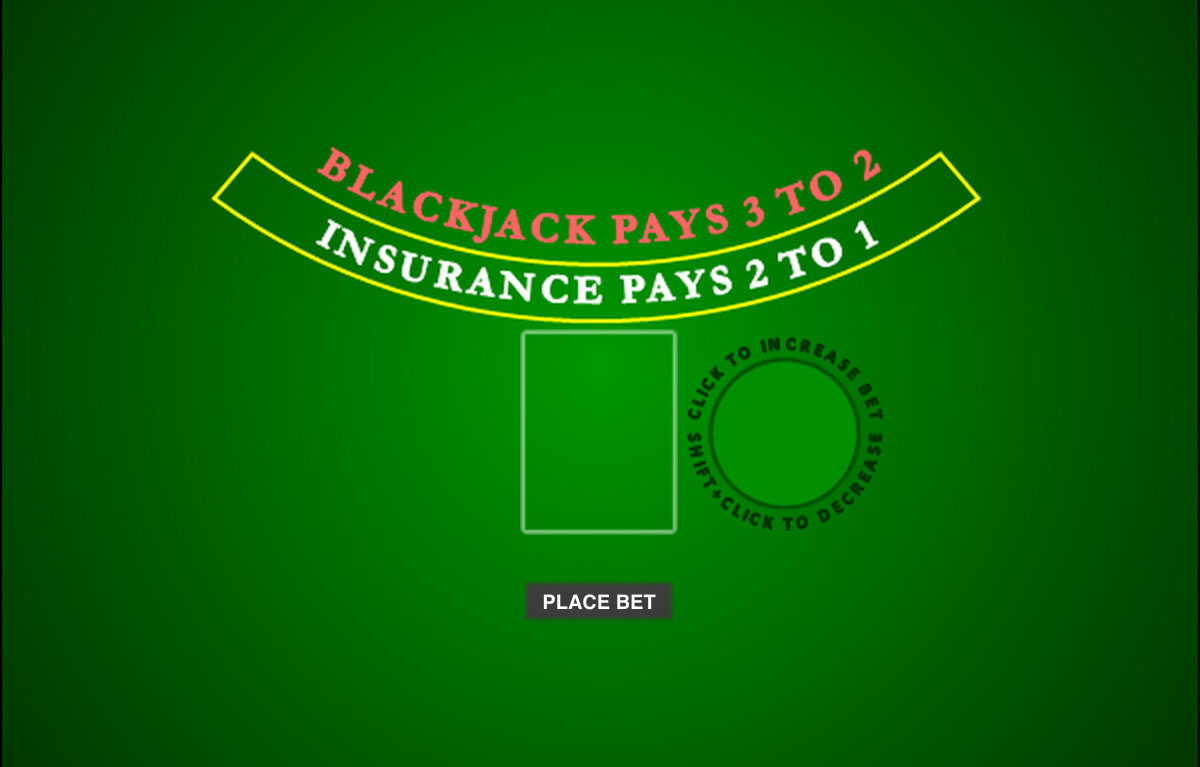
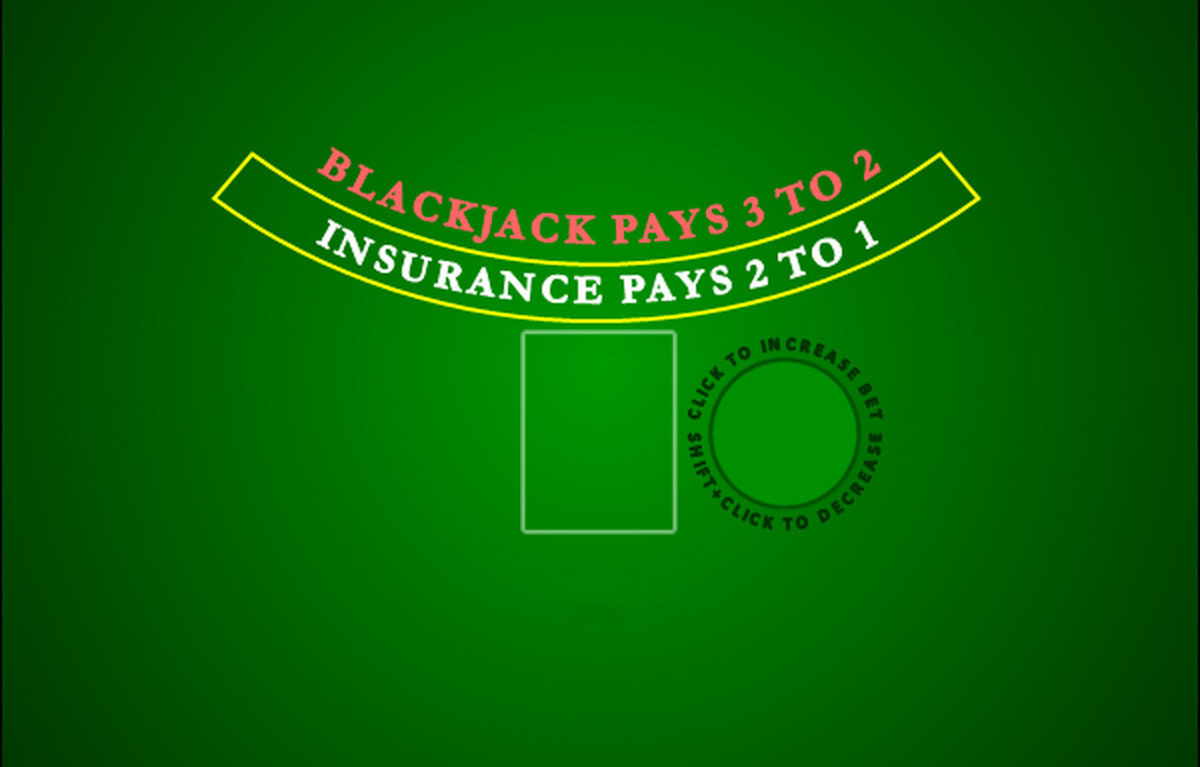
Initial frontend code

Changed region(s): [[0.4317, 0.7497, 0.5858, 0.8096]]

diff --git a/public/css/styles.css b/public/css/styles.css
@@ -8,31 +8,30 @@
   margin-left: 50px;
 }
 
-body {
-  color: green;
-}
-
 .hero-image {
   /* Use "linear-gradient" to add a darken background effect to the image (photographer.jpg). This will make the text easier to read */
   background-image: url("../Images/blackjack_background2.jpg");
   /* Set a specific height */
-  height: 50%;
-  /* Position and center the image to scale nicely on all screens */
   width: 100%;
-  height: 70%;
+  height: 75%;
   background-position: center;
-  background-repeat: no-repeat;
-  background-size: cover;
   position: relative;
 }
 
-.betAmountButton {
-  width: 80px;
+.betForm {
+  margin: 0 auto;
+  width: 50%;
 }
 
-.placeBetButton {
-  width: 130px;
-  position: absolute;
-  margin: 50%;
+@media only screen and (max-width: 550px) {
+  .hero-image {
+    /* Use "linear-gradient" to add a darken background effect to the image (photographer.jpg). This will make the text easier to read */
+    background-image: url("../Images/blackjack_small.jpg");
+    /* Position and center the image to scale nicely on all screens */
+    width: 100%;
+    height: 70%;
+    background-position: center;
+    position: relative;
+  }
 }
 /*# sourceMappingURL=styles.css.map */

diff --git a/public/index.html b/public/index.html
@@ -21,18 +21,17 @@
 
 <body>
     <!--Hero Image-->
-    <div class="hero-image">
-        <button type="button" class="btn btn-warning placeBetButton">Place Bet</button>
+    <div class="hero-image"></div>
 
-        <button type="button" class="btn btn-warning">Hit</button>
-        <button type="button" class="btn btn-warning">Stay</button>
-    </div>
+    <form class="betForm">
+        <label for="bet">Bet:</label>
+        <input type="number" id="bet" name="bet">
+        <input type="submit" class="btn btn-danger" value="Place Bet">
+    </form>
 
-    <button type="button" class="btn btn-primary betAmountButton">$ 1</button>
-    <button type="button" class="btn btn-secondary betAmountButton">$ 5</button>
-    <button type="button" class="btn btn-success betAmountButton">$ 10</button>
-    <button type="button" class="btn btn-danger betAmountButton">$ 20</button>
-    <button type="button" class="btn btn-warning betAmountButton">$ 100</button>
+    <button type="button" class="btn btn-warning hitButton">Hit</button>
+    <button type="button" class="btn btn-warning stayButton">Stay</button>
+    <button type="button" class="btn btn-warning finishButton">Finish</button>
 
     
 </body>

diff --git a/public/css/_hero.scss b/public/css/_hero.scss
@@ -1,17 +1,14 @@
 .hero-image {
-    /* Use "linear-gradient" to add a darken background effect to the image (photographer.jpg). This will make the text easier to read */
-  background-image: url("../Images/blackjack_background2.jpg");
+  /* Use "linear-gradient" to add a darken background effect to the image (photographer.jpg). This will make the text easier to read */
+background-image: url("../Images/blackjack_background2.jpg");
 
-  /* Set a specific height */
-  height: 50%;
+/* Set a specific height */
+//height: 50%;
 
-  /* Position and center the image to scale nicely on all screens */
-  width: 100%; 
-  height: 70%;
-  background-position: center;
-  background-repeat: no-repeat;
-  background-size: cover;
-  position: relative;
+width: 100%; 
+height: 75%;
+background-position: center;
+//background-repeat: no-repeat;
+//background-size: cover;
+position: relative;
 }
-
-

diff --git a/public/css/_media.scss b/public/css/_media.scss
@@ -1,0 +1,14 @@
+@media only screen and (max-width: 550px) {
+    .hero-image {
+      /* Use "linear-gradient" to add a darken background effect to the image (photographer.jpg). This will make the text easier to read */
+    background-image: url("../Images/blackjack_small.jpg");
+
+    /* Position and center the image to scale nicely on all screens */
+    width: 100%; 
+    height: 70%;
+    background-position: center;
+    //background-repeat: no-repeat;
+    //background-size: cover;
+    position: relative;
+  }
+}

diff --git a/public/css/_buttons.scss b/public/css/_buttons.scss
@@ -1,10 +1,20 @@
-.betAmountButton {
-    width: 80px;
+.betForm {
+    margin: 0 auto;
+    width: 50%;
 }
 
-.placeBetButton {
-    width: 130px;
-    position: absolute;
+// .hitButton {
+//     position: absolute;
+//     top: 50%;
+//     left: 31%;
+// }
 
-    margin: 50%;
-}
+// .stayButton {
+//     position: absolute;
+//     top: 50%;
+//     left: 25%;
+// }
+
+// .finishButton {
+    
+// }

diff --git a/public/css/styles.scss b/public/css/styles.scss
@@ -1,5 +1,5 @@
 @import "navBar";
-@import "background";
 @import "hero";
 @import "buttons";
 @import "mixin";
+@import "media";
